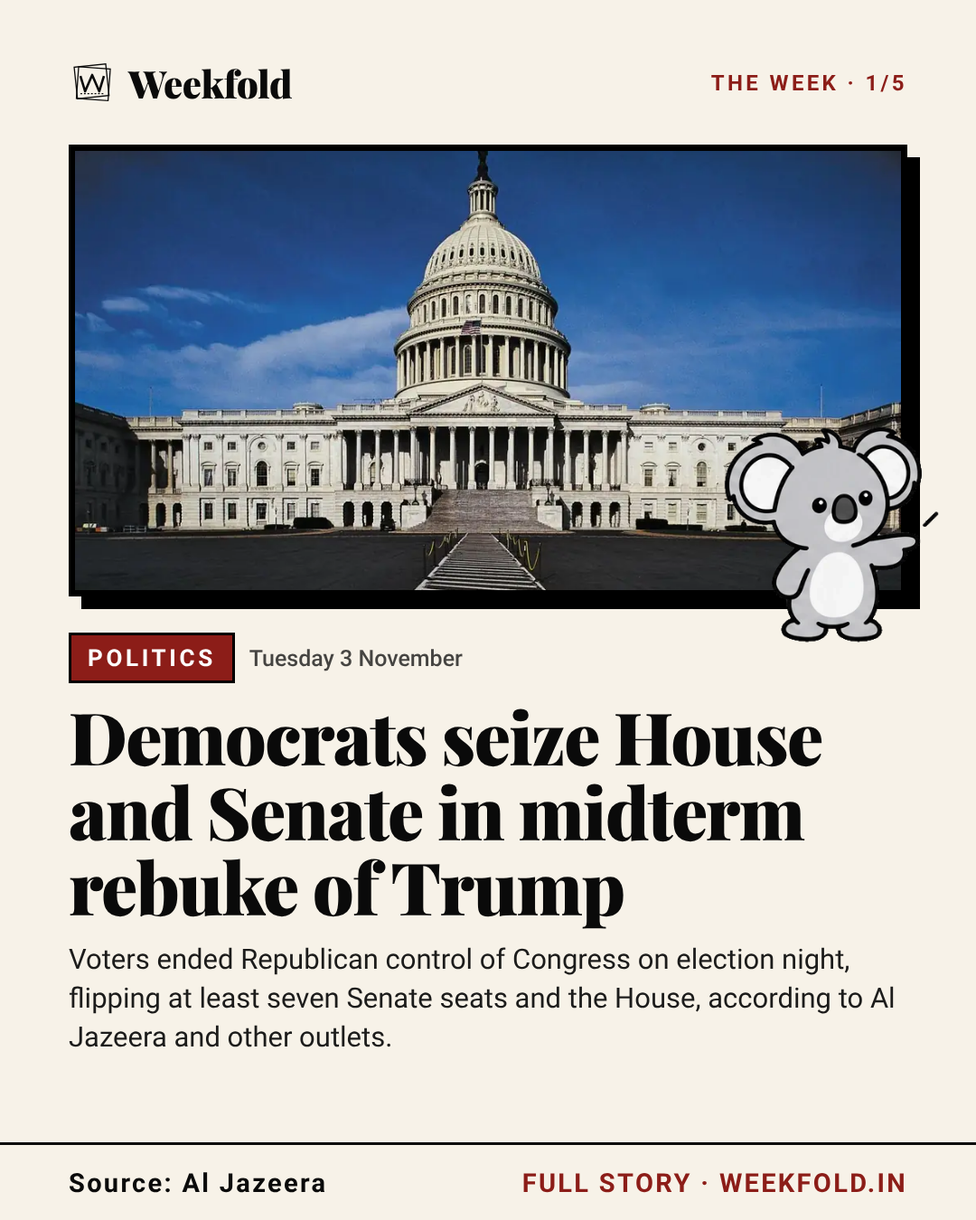
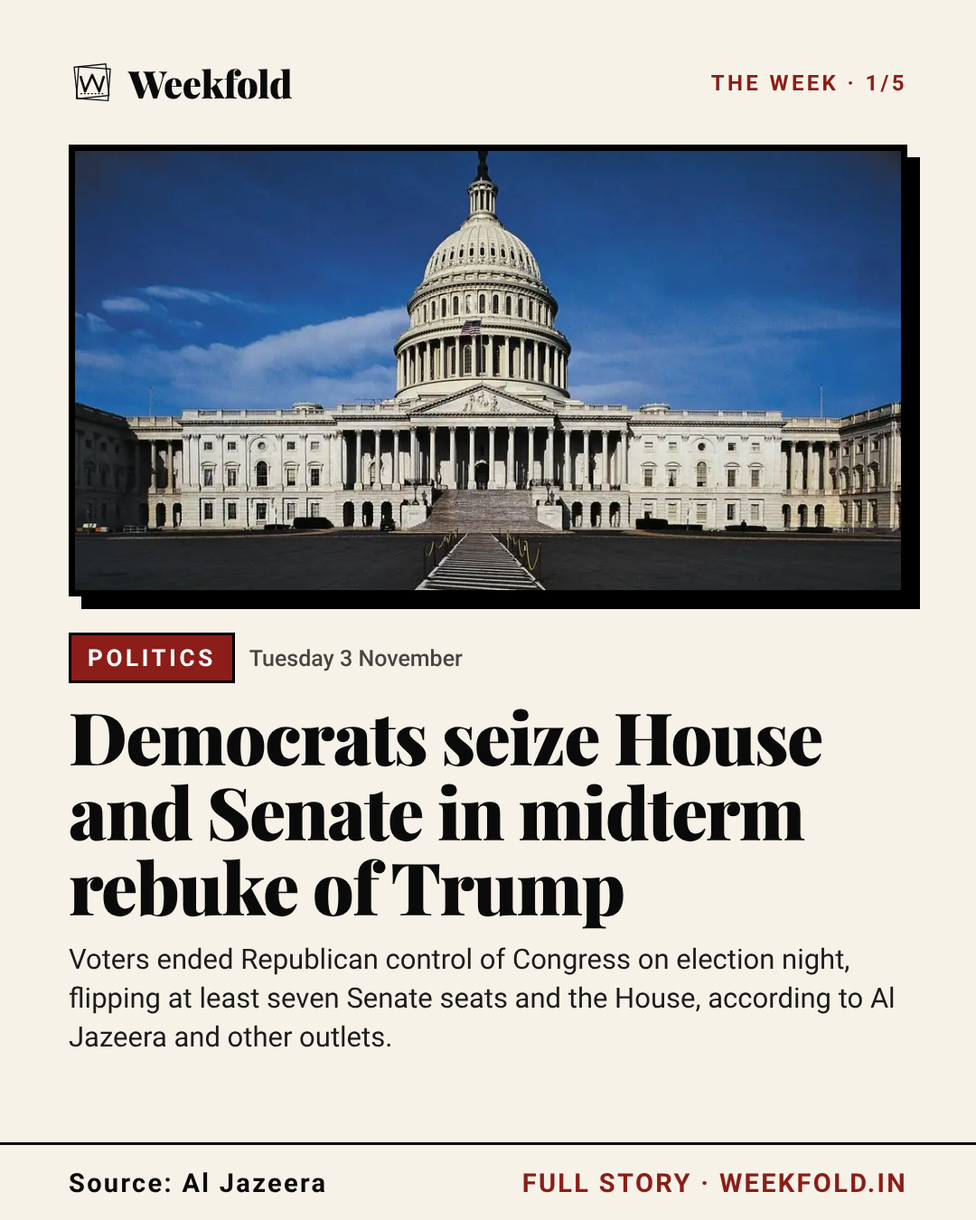
Instagram posts: crisp 2x koalas, no overlaps, no koala on news photos
Claude-Session: https://claude.ai/code/session_01ESiLAEbfA7guLETmyMs8UT

Changed region(s): [[0.7333, 0.3422, 0.9472, 0.5289]]

diff --git a/promo/instagram/posts.html b/promo/instagram/posts.html
@@ -14,31 +14,31 @@ h1{font:900 98px/1.03 'Playfair Display',serif;letter-spacing:-.025em;margin-top
 .ph1{position:absolute;left:76px;right:76px;top:300px;height:600px;border:7px solid #000;box-shadow:14px 14px 0 #000;overflow:hidden}.ph1 img{width:100%;height:100%;object-fit:cover;display:block}
 .pill{display:inline-block;font:700 26px Roboto;letter-spacing:.14em;text-transform:uppercase;padding:10px 18px;border:3px solid #000}
 .nh{position:absolute;left:76px;right:76px;top:760px}.nh h2{font:900 82px/1.04 'Playfair Display',serif;letter-spacing:-.02em;margin-top:16px}.nh p{font:400 33px/1.4 Roboto;margin-top:18px;opacity:.92}.nh small{display:block;font:500 25px Roboto;letter-spacing:.04em;margin-top:18px;opacity:.7}</style></head><body><div class="post" id="a01" style="background:#f7f2e8;color:#0a0a0a"><div class="top"><svg viewBox="0 0 80 80" fill="none" stroke="currentColor"><rect x="12" y="10" width="54" height="54" stroke-width="2" transform="rotate(-6 39 37)"/><rect x="15" y="14" width="54" height="54" stroke-width="2" transform="rotate(4 42 41)"/><path d="M20 28L28 54L40 26L52 54L60 28" stroke-width="4" stroke-linejoin="round"/><path d="M20 58h40" stroke-width="2" stroke-dasharray="3 3"/></svg><span>Weekfold</span></div>
-<div class="k" style="color:#8c1d18">Hello, world</div><h1>The world’s week, <em style="color:#8c1d18;font-style:italic">folded</em> into one free edition.</h1><div class="sub">A free news edition that lands every Sunday. One page for every day.</div><div class="ph" style="right:80px;width:400px;height:520px"><img src="file:///home/claude/weekfold/promo/instagram/shots/landing.png"></div><img class="kl" src="file:///home/claude/weekfold/src/koala/wave.webp" style="left:40px;bottom:96px;height:420px;transform:rotate(0deg)">
+<div class="k" style="color:#8c1d18">Hello, world</div><h1>The world’s week, <em style="color:#8c1d18;font-style:italic">folded</em> into one free edition.</h1><div class="sub">A free news edition that lands every Sunday. One page for every day.</div><div class="ph" style="right:80px;width:400px;height:520px"><img src="file:///home/claude/weekfold/promo/instagram/shots/landing.png"></div><img class="kl" src="file:///home/claude/weekfold/promo/instagram/koala_hi/cheer.png" style="left:30px;bottom:96px;height:400px;transform:rotate(0deg)">
 <div class="foot"><span>weekfold.in</span><span style="color:#8c1d18">FREE · EVERY SUNDAY</span></div></div><div class="post" id="a02" style="background:#10224a;color:#ffffff"><div class="top"><svg viewBox="0 0 80 80" fill="none" stroke="currentColor"><rect x="12" y="10" width="54" height="54" stroke-width="2" transform="rotate(-6 39 37)"/><rect x="15" y="14" width="54" height="54" stroke-width="2" transform="rotate(4 42 41)"/><path d="M20 28L28 54L40 26L52 54L60 28" stroke-width="4" stroke-linejoin="round"/><path d="M20 58h40" stroke-width="2" stroke-dasharray="3 3"/></svg><span>Weekfold</span></div>
-<div class="k" style="color:#f2c94c">Sound familiar?</div><h1>Too much news. <em style="color:#f2c94c;font-style:italic">Too little time.</em></h1><div class="sub">We read the week so you don’t have to scroll it.</div><div class="pol" style="left:400px;top:640px;width:300px;height:220px;transform:rotate(5deg)"><img src="file:///home/claude/weekfold/docs/img/United_States_Capitol.webp"></div><div class="pol" style="left:690px;top:700px;width:300px;height:220px;transform:rotate(-6deg)"><img src="file:///home/claude/weekfold/docs/img/Oil_tanker.webp"></div><div class="pol" style="left:520px;top:840px;width:300px;height:220px;transform:rotate(-3deg)"><img src="file:///home/claude/weekfold/docs/img/Bank_of_England.webp"></div><div class="pol" style="left:790px;top:880px;width:240px;height:190px;transform:rotate(7deg)"><img src="file:///home/claude/weekfold/docs/img/Heat_wave.webp"></div><div class="pol" style="left:380px;top:880px;width:230px;height:180px;transform:rotate(-8deg)"><img src="file:///home/claude/weekfold/docs/img/Kyiv.webp"></div><img class="kl" src="file:///home/claude/weekfold/src/koala/worry.webp" style="left:50px;bottom:96px;height:400px;transform:rotate(0deg)">
+<div class="k" style="color:#f2c94c">Sound familiar?</div><h1>Too much news. <em style="color:#f2c94c;font-style:italic">Too little time.</em></h1><div class="sub">We read the week so you don’t have to scroll it.</div><div class="pol" style="left:520px;top:640px;width:280px;height:210px;transform:rotate(5deg)"><img src="file:///home/claude/weekfold/docs/img/United_States_Capitol.webp"></div><div class="pol" style="left:770px;top:700px;width:240px;height:190px;transform:rotate(-6deg)"><img src="file:///home/claude/weekfold/docs/img/Oil_tanker.webp"></div><div class="pol" style="left:600px;top:850px;width:280px;height:210px;transform:rotate(-3deg)"><img src="file:///home/claude/weekfold/docs/img/Bank_of_England.webp"></div><div class="pol" style="left:850px;top:900px;width:190px;height:150px;transform:rotate(7deg)"><img src="file:///home/claude/weekfold/docs/img/Heat_wave.webp"></div><div class="pol" style="left:440px;top:900px;width:190px;height:150px;transform:rotate(-8deg)"><img src="file:///home/claude/weekfold/docs/img/Kyiv.webp"></div><img class="kl" src="file:///home/claude/weekfold/promo/instagram/koala_hi/worry.png" style="left:50px;bottom:96px;height:360px;transform:rotate(0deg)">
 <div class="foot"><span>weekfold.in</span><span style="color:#f2c94c">FREE · EVERY SUNDAY</span></div></div><div class="post" id="a03" style="background:#f7f2e8;color:#0a0a0a"><div class="top"><svg viewBox="0 0 80 80" fill="none" stroke="currentColor"><rect x="12" y="10" width="54" height="54" stroke-width="2" transform="rotate(-6 39 37)"/><rect x="15" y="14" width="54" height="54" stroke-width="2" transform="rotate(4 42 41)"/><path d="M20 28L28 54L40 26L52 54L60 28" stroke-width="4" stroke-linejoin="round"/><path d="M20 58h40" stroke-width="2" stroke-dasharray="3 3"/></svg><span>Weekfold</span></div>
-<div class="k" style="color:#8c1d18">How it works</div><h1>One page for <em style="color:#8c1d18;font-style:italic">every day</em> of the week.</h1><div class="sub">Monday to Sunday, the stories that still mattered by the end of the week.</div><div class="ph" style="right:80px;width:400px;height:520px"><img src="file:///home/claude/weekfold/promo/instagram/shots/days.png"></div><img class="kl" src="file:///home/claude/weekfold/src/koala/point.webp" style="left:40px;bottom:96px;height:420px;transform:rotate(0deg)">
+<div class="k" style="color:#8c1d18">How it works</div><h1>One page for <em style="color:#8c1d18;font-style:italic">every day</em> of the week.</h1><div class="sub">Monday to Sunday, the stories that still mattered by the end of the week.</div><div class="ph" style="right:80px;width:400px;height:520px"><img src="file:///home/claude/weekfold/promo/instagram/shots/days.png"></div><img class="kl" src="file:///home/claude/weekfold/promo/instagram/koala_hi/point.png" style="left:40px;bottom:96px;height:420px;transform:rotate(0deg)">
 <div class="foot"><span>weekfold.in</span><span style="color:#8c1d18">FREE · EVERY SUNDAY</span></div></div><div class="post" id="a04" style="background:#e9d98a;color:#0a0a0a"><div class="top"><svg viewBox="0 0 80 80" fill="none" stroke="currentColor"><rect x="12" y="10" width="54" height="54" stroke-width="2" transform="rotate(-6 39 37)"/><rect x="15" y="14" width="54" height="54" stroke-width="2" transform="rotate(4 42 41)"/><path d="M20 28L28 54L40 26L52 54L60 28" stroke-width="4" stroke-linejoin="round"/><path d="M20 58h40" stroke-width="2" stroke-dasharray="3 3"/></svg><span>Weekfold</span></div>
-<div class="k" style="color:#8c1d18">Our rule</div><h1>Every story <em style="color:#8c1d18;font-style:italic">names its sources.</em></h1><div class="sub">At least two independent outlets behind every story. Always linked.</div><div class="ph" style="right:80px;width:400px;height:520px"><img src="file:///home/claude/weekfold/promo/instagram/shots/story_src.png"></div><img class="kl" src="file:///home/claude/weekfold/src/koala/magnify.webp" style="left:40px;bottom:96px;height:410px;transform:rotate(0deg)">
+<div class="k" style="color:#8c1d18">Our rule</div><h1>Every story <em style="color:#8c1d18;font-style:italic">names its sources.</em></h1><div class="sub">At least two independent outlets behind every story. Always linked.</div><div class="ph" style="right:80px;width:400px;height:520px"><img src="file:///home/claude/weekfold/promo/instagram/shots/story_src.png"></div><img class="kl" src="file:///home/claude/weekfold/promo/instagram/koala_hi/magnify.png" style="left:40px;bottom:96px;height:410px;transform:rotate(0deg)">
 <div class="foot"><span>weekfold.in</span><span style="color:#8c1d18">FREE · EVERY SUNDAY</span></div></div><div class="post" id="a05" style="background:#10224a;color:#ffffff"><div class="top"><svg viewBox="0 0 80 80" fill="none" stroke="currentColor"><rect x="12" y="10" width="54" height="54" stroke-width="2" transform="rotate(-6 39 37)"/><rect x="15" y="14" width="54" height="54" stroke-width="2" transform="rotate(4 42 41)"/><path d="M20 28L28 54L40 26L52 54L60 28" stroke-width="4" stroke-linejoin="round"/><path d="M20 58h40" stroke-width="2" stroke-dasharray="3 3"/></svg><span>Weekfold</span></div>
-<div class="k" style="color:#f2c94c">The best part</div><h1>Free. No ads. <em style="color:#f2c94c;font-style:italic">No paywall.</em></h1><div class="sub">Just the week’s news, written in plain English.</div><div class="ph" style="right:80px;width:400px;height:520px"><img src="file:///home/claude/weekfold/promo/instagram/shots/home.png"></div><img class="kl" src="file:///home/claude/weekfold/src/koala/thumb.webp" style="left:40px;bottom:96px;height:420px;transform:rotate(0deg)">
+<div class="k" style="color:#f2c94c">The best part</div><h1>Free. No ads. <em style="color:#f2c94c;font-style:italic">No paywall.</em></h1><div class="sub">Just the week’s news, written in plain English.</div><div class="ph" style="right:80px;width:400px;height:520px"><img src="file:///home/claude/weekfold/promo/instagram/shots/home.png"></div><img class="kl" src="file:///home/claude/weekfold/promo/instagram/koala_hi/thumb.png" style="left:40px;bottom:96px;height:420px;transform:rotate(0deg)">
 <div class="foot"><span>weekfold.in</span><span style="color:#f2c94c">FREE · EVERY SUNDAY</span></div></div><div class="post" id="a06" style="background:#f7f2e8;color:#0a0a0a"><div class="top"><svg viewBox="0 0 80 80" fill="none" stroke="currentColor"><rect x="12" y="10" width="54" height="54" stroke-width="2" transform="rotate(-6 39 37)"/><rect x="15" y="14" width="54" height="54" stroke-width="2" transform="rotate(4 42 41)"/><path d="M20 28L28 54L40 26L52 54L60 28" stroke-width="4" stroke-linejoin="round"/><path d="M20 58h40" stroke-width="2" stroke-dasharray="3 3"/></svg><span>Weekfold</span></div>
-<div class="k" style="color:#8c1d18">Mark your calendar</div><h1>A new edition <em style="color:#8c1d18;font-style:italic">every Sunday.</em></h1><div class="sub">Seven days, seven leads, one read. Straight to your inbox.</div><div class="week"><div class="wd"><b>02 Nov</b><div style="background-image:url(file:///home/claude/weekfold/docs/img/Kyiv.webp)"></div><i>Ukraine and Russia emergency alert apps hacked as local tr</i></div><div class="wd"><b>03 Nov</b><div style="background-image:url(file:///home/claude/weekfold/docs/img/United_States_Capitol.webp)"></div><i>Democrats seize House and Senate in midterm rebuke of Trum</i></div><div class="wd"><b>04 Nov</b><div style="background-image:url(file:///home/claude/weekfold/docs/img/Zaporizhzhia.webp)"></div><i>Dozens dead as Russian bombs hit Zaporizhzhia aid point</i></div><div class="wd"><b>05 Nov</b><div style="background-image:url(file:///home/claude/weekfold/docs/img/Oil_tanker.webp)"></div><i>Tankers burn in Hormuz as Iran presses on after US midterm</i></div><div class="wd"><b>06 Nov</b><div style="background-image:url(file:///home/claude/weekfold/docs/img/Pedro_Alliana.webp)"></div><i>Paraguay&#x27;s Senate removes president over bank collapse; Al</i></div><div class="wd"><b>07 Nov</b><div style="background-image:url(file:///home/claude/weekfold/docs/img/Main_Square_Krakow.webp)"></div><i>Gunman kills six in Kraków&#x27;s Main Square; Poland calls it </i></div><div class="wd"><b>08 Nov</b><div style="background-image:url(file:///home/claude/weekfold/docs/img/United_States_Central_Command.webp)"></div><i>US opens land and Caspian front against Iran with Task For</i></div></div><img class="kl" src="file:///home/claude/weekfold/src/koala/sun.webp" style="right:60px;bottom:420px;height:360px;transform:rotate(0deg)">
+<div class="k" style="color:#8c1d18">Mark your calendar</div><h1>A new edition <em style="color:#8c1d18;font-style:italic">every Sunday.</em></h1><div class="sub">Seven days, seven leads, one read. Straight to your inbox.</div><div class="week"><div class="wd"><b>02 Nov</b><div style="background-image:url(file:///home/claude/weekfold/docs/img/Kyiv.webp)"></div><i>Ukraine and Russia emergency alert apps hacked as local tr</i></div><div class="wd"><b>03 Nov</b><div style="background-image:url(file:///home/claude/weekfold/docs/img/United_States_Capitol.webp)"></div><i>Democrats seize House and Senate in midterm rebuke of Trum</i></div><div class="wd"><b>04 Nov</b><div style="background-image:url(file:///home/claude/weekfold/docs/img/Zaporizhzhia.webp)"></div><i>Dozens dead as Russian bombs hit Zaporizhzhia aid point</i></div><div class="wd"><b>05 Nov</b><div style="background-image:url(file:///home/claude/weekfold/docs/img/Oil_tanker.webp)"></div><i>Tankers burn in Hormuz as Iran presses on after US midterm</i></div><div class="wd"><b>06 Nov</b><div style="background-image:url(file:///home/claude/weekfold/docs/img/Pedro_Alliana.webp)"></div><i>Paraguay&#x27;s Senate removes president over bank collapse; Al</i></div><div class="wd"><b>07 Nov</b><div style="background-image:url(file:///home/claude/weekfold/docs/img/Main_Square_Krakow.webp)"></div><i>Gunman kills six in Kraków&#x27;s Main Square; Poland calls it </i></div><div class="wd"><b>08 Nov</b><div style="background-image:url(file:///home/claude/weekfold/docs/img/United_States_Central_Command.webp)"></div><i>US opens land and Caspian front against Iran with Task For</i></div></div><img class="kl" src="file:///home/claude/weekfold/promo/instagram/koala_hi/sun.png" style="right:60px;bottom:420px;height:360px;transform:rotate(0deg)">
 <div class="foot"><span>weekfold.in</span><span style="color:#8c1d18">FREE · EVERY SUNDAY</span></div></div><div class="post" id="a07" style="background:#e9d98a;color:#0a0a0a"><div class="top"><svg viewBox="0 0 80 80" fill="none" stroke="currentColor"><rect x="12" y="10" width="54" height="54" stroke-width="2" transform="rotate(-6 39 37)"/><rect x="15" y="14" width="54" height="54" stroke-width="2" transform="rotate(4 42 41)"/><path d="M20 28L28 54L40 26L52 54L60 28" stroke-width="4" stroke-linejoin="round"/><path d="M20 58h40" stroke-width="2" stroke-dasharray="3 3"/></svg><span>Weekfold</span></div>
-<div class="k" style="color:#8c1d18">Games</div><h1>Two games. <em style="color:#8c1d18;font-style:italic">Every day.</em></h1><div class="sub">A fresh mini crossword and Weekfold Word, right inside the site.</div><div class="ph" style="right:60px;width:380px;height:500px"><img src="file:///home/claude/weekfold/promo/instagram/shots/crossword.png"></div><div class="ph" style="right:480px;width:380px;height:500px"><img src="file:///home/claude/weekfold/promo/instagram/shots/word.png"></div><img class="kl" src="file:///home/claude/weekfold/src/koala/mug.webp" style="left:20px;bottom:96px;height:380px;transform:rotate(0deg)">
+<div class="k" style="color:#8c1d18">Games</div><h1>Two games. <em style="color:#8c1d18;font-style:italic">Every day.</em></h1><div class="sub">A fresh mini crossword and Weekfold Word, right inside the site.</div><div class="ph" style="right:50px;width:340px;height:480px"><img src="file:///home/claude/weekfold/promo/instagram/shots/crossword.png"></div><div class="ph" style="right:420px;width:340px;height:480px"><img src="file:///home/claude/weekfold/promo/instagram/shots/word.png"></div><img class="kl" src="file:///home/claude/weekfold/promo/instagram/koala_hi/mug.png" style="left:30px;bottom:96px;height:300px;transform:rotate(0deg)">
 <div class="foot"><span>weekfold.in</span><span style="color:#8c1d18">FREE · EVERY SUNDAY</span></div></div><div class="post" id="a08" style="background:#10224a;color:#ffffff"><div class="top"><svg viewBox="0 0 80 80" fill="none" stroke="currentColor"><rect x="12" y="10" width="54" height="54" stroke-width="2" transform="rotate(-6 39 37)"/><rect x="15" y="14" width="54" height="54" stroke-width="2" transform="rotate(4 42 41)"/><path d="M20 28L28 54L40 26L52 54L60 28" stroke-width="4" stroke-linejoin="round"/><path d="M20 58h40" stroke-width="2" stroke-dasharray="3 3"/></svg><span>Weekfold</span></div>
-<div class="k" style="color:#f2c94c">World news</div><h1>Five minutes to <em style="color:#f2c94c;font-style:italic">catch up</em> on the planet.</h1><div class="sub">Politics, science, climate, sport, culture and more, all in one place.</div><div class="pol" style="left:430px;top:700px;width:280px;height:210px;transform:rotate(-5deg)"><img src="file:///home/claude/weekfold/docs/img/Greenland_ice_sheet.webp"></div><div class="pol" style="left:700px;top:730px;width:300px;height:220px;transform:rotate(5deg)"><img src="file:///home/claude/weekfold/docs/img/Pedro_Alliana.webp"></div><div class="pol" style="left:560px;top:890px;width:270px;height:200px;transform:rotate(-3deg)"><img src="file:///home/claude/weekfold/docs/img/Beauden_Barrett.webp"></div><div class="pol" style="left:840px;top:930px;width:190px;height:160px;transform:rotate(8deg)"><img src="file:///home/claude/weekfold/docs/img/Joshua_Kutryk.webp"></div><img class="kl" src="file:///home/claude/weekfold/src/koala/globe.webp" style="left:40px;bottom:96px;height:420px;transform:rotate(0deg)">
+<div class="k" style="color:#f2c94c">World news</div><h1>Five minutes to <em style="color:#f2c94c;font-style:italic">catch up</em> on the planet.</h1><div class="sub">Politics, science, climate, sport, culture and more, all in one place.</div><div class="pol" style="left:430px;top:700px;width:280px;height:210px;transform:rotate(-5deg)"><img src="file:///home/claude/weekfold/docs/img/Greenland_ice_sheet.webp"></div><div class="pol" style="left:700px;top:730px;width:300px;height:220px;transform:rotate(5deg)"><img src="file:///home/claude/weekfold/docs/img/Pedro_Alliana.webp"></div><div class="pol" style="left:560px;top:890px;width:270px;height:200px;transform:rotate(-3deg)"><img src="file:///home/claude/weekfold/docs/img/Beauden_Barrett.webp"></div><div class="pol" style="left:840px;top:930px;width:190px;height:160px;transform:rotate(8deg)"><img src="file:///home/claude/weekfold/docs/img/Joshua_Kutryk.webp"></div><img class="kl" src="file:///home/claude/weekfold/promo/instagram/koala_hi/globe.png" style="left:40px;bottom:96px;height:420px;transform:rotate(0deg)">
 <div class="foot"><span>weekfold.in</span><span style="color:#f2c94c">FREE · EVERY SUNDAY</span></div></div><div class="post" id="a09" style="background:#f7f2e8;color:#0a0a0a"><div class="top"><svg viewBox="0 0 80 80" fill="none" stroke="currentColor"><rect x="12" y="10" width="54" height="54" stroke-width="2" transform="rotate(-6 39 37)"/><rect x="15" y="14" width="54" height="54" stroke-width="2" transform="rotate(4 42 41)"/><path d="M20 28L28 54L40 26L52 54L60 28" stroke-width="4" stroke-linejoin="round"/><path d="M20 58h40" stroke-width="2" stroke-dasharray="3 3"/></svg><span>Weekfold</span></div>
-<div class="k" style="color:#8c1d18">Our promise</div><h1>No spin. <em style="color:#8c1d18;font-style:italic">Just the facts.</em></h1><div class="sub">Plain-English summaries of what actually happened, with the sources one tap away.</div><div class="ph" style="right:80px;width:400px;height:520px"><img src="file:///home/claude/weekfold/promo/instagram/shots/story.png"></div><img class="kl" src="file:///home/claude/weekfold/src/koala/shock.webp" style="left:50px;bottom:96px;height:400px;transform:rotate(0deg)">
+<div class="k" style="color:#8c1d18">Our promise</div><h1>No spin. <em style="color:#8c1d18;font-style:italic">Just the facts.</em></h1><div class="sub">Plain-English summaries of what actually happened, with the sources one tap away.</div><div class="ph" style="right:80px;width:400px;height:520px"><img src="file:///home/claude/weekfold/promo/instagram/shots/story.png"></div><img class="kl" src="file:///home/claude/weekfold/promo/instagram/koala_hi/shock.png" style="left:50px;bottom:96px;height:400px;transform:rotate(0deg)">
 <div class="foot"><span>weekfold.in</span><span style="color:#8c1d18">FREE · EVERY SUNDAY</span></div></div><div class="post" id="a10" style="background:#10224a;color:#ffffff"><div class="top"><svg viewBox="0 0 80 80" fill="none" stroke="currentColor"><rect x="12" y="10" width="54" height="54" stroke-width="2" transform="rotate(-6 39 37)"/><rect x="15" y="14" width="54" height="54" stroke-width="2" transform="rotate(4 42 41)"/><path d="M20 28L28 54L40 26L52 54L60 28" stroke-width="4" stroke-linejoin="round"/><path d="M20 58h40" stroke-width="2" stroke-dasharray="3 3"/></svg><span>Weekfold</span></div>
-<div class="k" style="color:#f2c94c">Ready?</div><h1>Get Weekfold <em style="color:#f2c94c;font-style:italic">every Sunday.</em></h1><div class="sub">Free forever. Join at weekfold.in (link in bio).</div><div class="ph" style="right:80px;width:400px;height:520px"><img src="file:///home/claude/weekfold/promo/instagram/shots/landing.png"></div><img class="kl" src="file:///home/claude/weekfold/src/koala/mega.webp" style="left:40px;bottom:96px;height:420px;transform:rotate(0deg)">
+<div class="k" style="color:#f2c94c">Ready?</div><h1>Get Weekfold <em style="color:#f2c94c;font-style:italic">every Sunday.</em></h1><div class="sub">Free forever. Join at weekfold.in (link in bio).</div><div class="ph" style="right:80px;width:400px;height:520px"><img src="file:///home/claude/weekfold/promo/instagram/shots/landing.png"></div><img class="kl" src="file:///home/claude/weekfold/promo/instagram/koala_hi/mega.png" style="left:40px;bottom:96px;height:420px;transform:rotate(0deg)">
 <div class="foot"><span>weekfold.in</span><span style="color:#f2c94c">FREE · EVERY SUNDAY</span></div></div><div class="post" id="n01" style="background:#f7f2e8;color:#0a0a0a"><div class="top"><svg viewBox="0 0 80 80" fill="none" stroke="currentColor"><rect x="12" y="10" width="54" height="54" stroke-width="2" transform="rotate(-6 39 37)"/><rect x="15" y="14" width="54" height="54" stroke-width="2" transform="rotate(4 42 41)"/><path d="M20 28L28 54L40 26L52 54L60 28" stroke-width="4" stroke-linejoin="round"/><path d="M20 58h40" stroke-width="2" stroke-dasharray="3 3"/></svg><span>Weekfold</span><span class="r" style="color:#8c1d18">The week · 1/5</span></div>
 <div class="ph1" style="top:160px;height:500px"><img src="file:///home/claude/weekfold/docs/img/United_States_Capitol.webp"></div>
 <div class="nh" style="top:700px"><span class="pill" style="background:#8c1d18;color:#fff;border-color:#000">Politics</span><span style="font:500 25px Roboto;margin-left:16px;opacity:.75">Tuesday 3 November</span>
 <h2 style="font-size:80px">Democrats seize House and Senate in midterm rebuke of Trump</h2>
 <p style="font-size:31px;display:-webkit-box;-webkit-line-clamp:3;-webkit-box-orient:vertical;overflow:hidden">Voters ended Republican control of Congress on election night, flipping at least seven Senate seats and the House, according to Al Jazeera and other outlets.</p></div>
-<img class="kl" src="file:///home/claude/weekfold/src/koala/point.webp" style="right:34px;top:470px;height:250px"><div class="foot"><span>Source: Al Jazeera</span><span style="color:#8c1d18">FULL STORY · WEEKFOLD.IN</span></div></div><div class="post" id="n02" style="background:#10224a;color:#ffffff"><div class="top"><svg viewBox="0 0 80 80" fill="none" stroke="currentColor"><rect x="12" y="10" width="54" height="54" stroke-width="2" transform="rotate(-6 39 37)"/><rect x="15" y="14" width="54" height="54" stroke-width="2" transform="rotate(4 42 41)"/><path d="M20 28L28 54L40 26L52 54L60 28" stroke-width="4" stroke-linejoin="round"/><path d="M20 58h40" stroke-width="2" stroke-dasharray="3 3"/></svg><span>Weekfold</span><span class="r" style="color:#f2c94c">The week · 2/5</span></div>
+<div class="foot"><span>Source: Al Jazeera</span><span style="color:#8c1d18">FULL STORY · WEEKFOLD.IN</span></div></div><div class="post" id="n02" style="background:#10224a;color:#ffffff"><div class="top"><svg viewBox="0 0 80 80" fill="none" stroke="currentColor"><rect x="12" y="10" width="54" height="54" stroke-width="2" transform="rotate(-6 39 37)"/><rect x="15" y="14" width="54" height="54" stroke-width="2" transform="rotate(4 42 41)"/><path d="M20 28L28 54L40 26L52 54L60 28" stroke-width="4" stroke-linejoin="round"/><path d="M20 58h40" stroke-width="2" stroke-dasharray="3 3"/></svg><span>Weekfold</span><span class="r" style="color:#f2c94c">The week · 2/5</span></div>
 <div class="ph1" style="top:160px;height:500px"><img src="file:///home/claude/weekfold/docs/img/Oil_tanker.webp"></div>
 <div class="nh" style="top:700px"><span class="pill" style="background:#f2c94c;color:#10224a;border-color:#000">Conflict</span><span style="font:500 25px Roboto;margin-left:16px;opacity:.75">Thursday 5 November</span>
 <h2 style="font-size:80px">Tankers burn in Hormuz as Iran presses on after US midterms</h2>
@@ -48,7 +48,7 @@ h1{font:900 98px/1.03 'Playfair Display',serif;letter-spacing:-.025em;margin-top
 <div class="nh" style="top:700px"><span class="pill" style="background:#8c1d18;color:#fff;border-color:#000">Business</span><span style="font:500 25px Roboto;margin-left:16px;opacity:.75">Thursday 5 November</span>
 <h2 style="font-size:72px">Bank of England raises interest rates to 4%, first rise since 2023</h2>
 <p style="font-size:31px;display:-webkit-box;-webkit-line-clamp:3;-webkit-box-orient:vertical;overflow:hidden">An 8-1 vote lifted Bank Rate by a quarter point as energy costs push UK inflation higher.</p></div>
-<img class="kl" src="file:///home/claude/weekfold/src/koala/magnify.webp" style="right:34px;top:470px;height:250px"><div class="foot"><span>Source: Bank of England</span><span style="color:#8c1d18">FULL STORY · WEEKFOLD.IN</span></div></div><div class="post" id="n04" style="background:#10224a;color:#ffffff"><div class="top"><svg viewBox="0 0 80 80" fill="none" stroke="currentColor"><rect x="12" y="10" width="54" height="54" stroke-width="2" transform="rotate(-6 39 37)"/><rect x="15" y="14" width="54" height="54" stroke-width="2" transform="rotate(4 42 41)"/><path d="M20 28L28 54L40 26L52 54L60 28" stroke-width="4" stroke-linejoin="round"/><path d="M20 58h40" stroke-width="2" stroke-dasharray="3 3"/></svg><span>Weekfold</span><span class="r" style="color:#f2c94c">The week · 4/5</span></div>
+<div class="foot"><span>Source: Bank of England</span><span style="color:#8c1d18">FULL STORY · WEEKFOLD.IN</span></div></div><div class="post" id="n04" style="background:#10224a;color:#ffffff"><div class="top"><svg viewBox="0 0 80 80" fill="none" stroke="currentColor"><rect x="12" y="10" width="54" height="54" stroke-width="2" transform="rotate(-6 39 37)"/><rect x="15" y="14" width="54" height="54" stroke-width="2" transform="rotate(4 42 41)"/><path d="M20 28L28 54L40 26L52 54L60 28" stroke-width="4" stroke-linejoin="round"/><path d="M20 58h40" stroke-width="2" stroke-dasharray="3 3"/></svg><span>Weekfold</span><span class="r" style="color:#f2c94c">The week · 4/5</span></div>
 <div class="ph1" style="top:160px;height:500px"><img src="file:///home/claude/weekfold/docs/img/Main_Square_Krakow.webp"></div>
 <div class="nh" style="top:700px"><span class="pill" style="background:#f2c94c;color:#10224a;border-color:#000">World</span><span style="font:500 25px Roboto;margin-left:16px;opacity:.75">Saturday 7 November</span>
 <h2 style="font-size:72px">Gunman kills six in Kraków&#x27;s Main Square; Poland calls it terrorism</h2>
@@ -58,4 +58,4 @@ h1{font:900 98px/1.03 'Playfair Display',serif;letter-spacing:-.025em;margin-top
 <div class="nh" style="top:700px"><span class="pill" style="background:#8c1d18;color:#fff;border-color:#000">Climate</span><span style="font:500 25px Roboto;margin-left:16px;opacity:.75">Friday 6 November</span>
 <h2 style="font-size:72px">October 2026 was the warmest October on record, EU monitor says</h2>
 <p style="font-size:31px;display:-webkit-box;-webkit-line-clamp:3;-webkit-box-orient:vertical;overflow:hidden">Copernicus says 2026 is all but certain to pass 1.5C above pre-industrial levels as a strong El Niño builds.</p></div>
-<img class="kl" src="file:///home/claude/weekfold/src/koala/worry.webp" style="right:34px;top:470px;height:250px"><div class="foot"><span>Source: Reuters</span><span style="color:#8c1d18">FULL STORY · WEEKFOLD.IN</span></div></div></body></html>
+<div class="foot"><span>Source: Reuters</span><span style="color:#8c1d18">FULL STORY · WEEKFOLD.IN</span></div></div></body></html>

diff --git a/promo/instagram/gen.py b/promo/instagram/gen.py
@@ -3,7 +3,11 @@ Ads use screenshots in promo/instagram/shots/ (re-take them with the site runnin
 import json, pathlib, html
 from playwright.sync_api import sync_playwright
 HERE = pathlib.Path(__file__).resolve().parent; ROOT = HERE.parent.parent
-K = (ROOT / 'src' / 'koala').as_uri(); SH = (HERE / 'shots').as_uri()
+from PIL import Image, ImageFilter
+_hi = HERE / 'koala_hi'; _hi.mkdir(exist_ok=True)
+for _p in (ROOT / 'src' / 'koala').glob('*.webp'):   # 2x Lanczos + light sharpen so posts look crisp
+    _im = Image.open(_p).convert('RGBA'); _im = _im.resize((_im.width * 2, _im.height * 2), Image.LANCZOS).filter(ImageFilter.UnsharpMask(2, 90, 2)); _im.save(_hi / (_p.stem + '.png'))
+K = _hi.as_uri(); SH = (HERE / 'shots').as_uri()
 IMG = (ROOT / 'docs' / 'img').as_uri()
 man = json.loads((ROOT / 'data' / 'photos' / 'manifest.json').read_text())
 _n = max(int(f.stem) for f in (ROOT / 'data' / 'editions').glob('*.json'))   # newest edition
@@ -38,31 +42,31 @@ def ad(i, th, kick, h, sub, body):
 def phone(f, right=70, w=400, h=520): return f'<div class="ph" style="right:{right}px;width:{w}px;height:{h}px"><img src="{SH}/{f}.png"></div>'
 def koala(n, h, left=None, right=None, bottom=96, rot=0):
     pos = f'left:{left}px;' if left is not None else f'right:{right}px;'
-    return f'<img class="kl" src="{K}/{n}.webp" style="{pos}bottom:{bottom}px;height:{h}px;transform:rotate({rot}deg)">'
+    return f'<img class="kl" src="{K}/{n}.png" style="{pos}bottom:{bottom}px;height:{h}px;transform:rotate({rot}deg)">'
 def collage(items):
     return ''.join(f'<div class="pol" style="left:{x}px;top:{y}px;width:{w}px;height:{h}px;transform:rotate({r}deg)"><img src="{photo(t)}"></div>' for t, x, y, w, h, r in items)
 
 A = []
-A.append(ad(1, 'cream', 'Hello, world', 'The world’s week, <em>folded</em> into one free edition.', 'A free news edition that lands every Sunday. One page for every day.', phone('landing', right=80) + koala('wave', 420, left=40)))
+A.append(ad(1, 'cream', 'Hello, world', 'The world’s week, <em>folded</em> into one free edition.', 'A free news edition that lands every Sunday. One page for every day.', phone('landing', right=80) + koala('cheer', 400, left=30)))
 A.append(ad(2, 'navy', 'Sound familiar?', 'Too much news. <em>Too little time.</em>', 'We read the week so you don’t have to scroll it.',
-    collage([('United_States_Capitol', 400, 640, 300, 220, 5), ('Oil_tanker', 690, 700, 300, 220, -6), ('Bank_of_England', 520, 840, 300, 220, -3), ('Heat_wave', 790, 880, 240, 190, 7), ('Kyiv', 380, 880, 230, 180, -8)]) + koala('worry', 400, left=50)))
+    collage([('United_States_Capitol', 520, 640, 280, 210, 5), ('Oil_tanker', 770, 700, 240, 190, -6), ('Bank_of_England', 600, 850, 280, 210, -3), ('Heat_wave', 850, 900, 190, 150, 7), ('Kyiv', 440, 900, 190, 150, -8)]) + koala('worry', 360, left=50)))
 A.append(ad(3, 'cream', 'How it works', 'One page for <em>every day</em> of the week.', 'Monday to Sunday, the stories that still mattered by the end of the week.', phone('days', right=80) + koala('point', 420, left=40)))
 A.append(ad(4, 'gold', 'Our rule', 'Every story <em>names its sources.</em>', 'At least two independent outlets behind every story. Always linked.', phone('story_src', right=80) + koala('magnify', 410, left=40)))
 A.append(ad(5, 'navy', 'The best part', 'Free. No ads. <em>No paywall.</em>', 'Just the week’s news, written in plain English.', phone('home', right=80) + koala('thumb', 420, left=40)))
 wk = ''.join(f'<div class="wd"><b>{d["date"][8:]} Nov</b><div style="background-image:url({photo(d["lead"]["image"]["wiki"])})"></div><i>{html.escape(d["lead"]["headline"][:58])}</i></div>' for d in ed['days'])
 A.append(ad(6, 'cream', 'Mark your calendar', 'A new edition <em>every Sunday.</em>', 'Seven days, seven leads, one read. Straight to your inbox.', f'<div class="week">{wk}</div>' + koala('sun', 360, right=60, bottom=420, rot=0)))
-A.append(ad(7, 'gold', 'Games', 'Two games. <em>Every day.</em>', 'A fresh mini crossword and Weekfold Word, right inside the site.', phone('crossword', right=60, w=380, h=500) + phone('word', right=480, w=380, h=500) + koala('mug', 380, left=20, bottom=96)))
+A.append(ad(7, 'gold', 'Games', 'Two games. <em>Every day.</em>', 'A fresh mini crossword and Weekfold Word, right inside the site.', phone('crossword', right=50, w=340, h=480) + phone('word', right=420, w=340, h=480) + koala('mug', 300, left=30, bottom=96)))
 A.append(ad(8, 'navy', 'World news', 'Five minutes to <em>catch up</em> on the planet.', 'Politics, science, climate, sport, culture and more, all in one place.',
     collage([('Greenland_ice_sheet', 430, 700, 280, 210, -5), ('Pedro_Alliana', 700, 730, 300, 220, 5), ('Beauden_Barrett', 560, 890, 270, 200, -3), ('Joshua_Kutryk', 840, 930, 190, 160, 8)]) + koala('globe', 420, left=40)))
 A.append(ad(9, 'cream', 'Our promise', 'No spin. <em>Just the facts.</em>', 'Plain-English summaries of what actually happened, with the sources one tap away.', phone('story', right=80) + koala('shock', 400, left=50)))
 A.append(ad(10, 'navy', 'Ready?', 'Get Weekfold <em>every Sunday.</em>', 'Free forever. Join at weekfold.in (link in bio).', phone('landing', right=80) + koala('mega', 420, left=40)))
 
 N = [  # THE WEEKLY TASK EDITS THIS LIST: (day index 0-6, story index within day, theme cream/navy/gold, koala pose or None). Pick the 5 biggest stories; no koala on deaths/violence.
- (1, 0, 'cream', 'point'), (3, 0, 'navy', None), (3, 1, 'gold', 'magnify'), (5, 0, 'navy', None), (4, 1, 'cream', 'worry')]
+ (1, 0, 'cream', None), (3, 0, 'navy', None), (3, 1, 'gold', None), (5, 0, 'navy', None), (4, 1, 'cream', None)]
 def news(i, spec):
     di, k, th, ko = spec; s = story(di, k); bg, fg, acc = TH[th]; d = ed['days'][di]['date']
     import datetime; day = datetime.date.fromisoformat(d).strftime('%A %-d %B')
-    kl = f'<img class="kl" src="{K}/{ko}.webp" style="right:34px;top:470px;height:250px">' if ko else ''
+    kl = f'<img class="kl" src="{K}/{ko}.png" style="right:34px;top:470px;height:250px">' if ko else ''
     return f'''<div class="post" id="n{i:02d}" style="background:{bg};color:{fg}"><div class="top">{LOGO}<span>Weekfold</span><span class="r" style="color:{acc}">The week · {i}/5</span></div>
 <div class="ph1" style="top:160px;height:500px"><img src="{photo(s['image']['wiki'])}"></div>
 <div class="nh" style="top:700px"><span class="pill" style="background:{acc if th!='navy' else '#f2c94c'};color:{'#fff' if th!='navy' else '#10224a'};border-color:#000">{s['category']}</span><span style="font:500 25px Roboto;margin-left:16px;opacity:.75">{day}</span>
